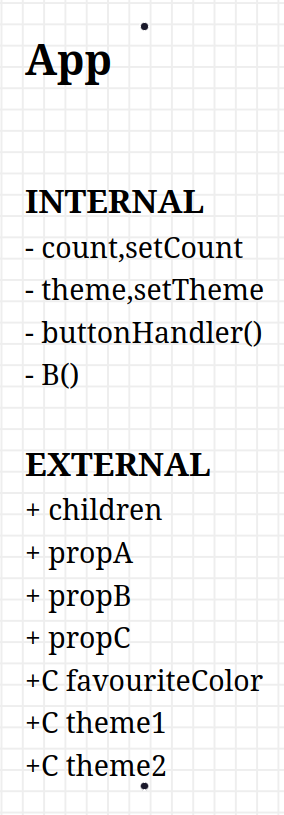
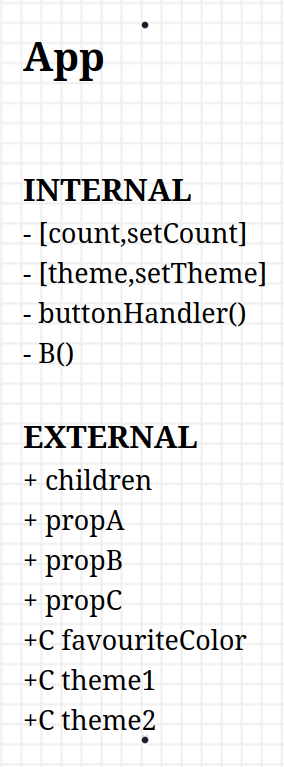
feat: update ComponentNode state display format
- Modify the state display in ComponentNode to use square brackets for better visual distinction.
- Update the diagram preview image to reflect the latest UI changes.

diff --git a/src/components/ComponentNode/ComponentNode.jsx b/src/components/ComponentNode/ComponentNode.jsx
@@ -10,7 +10,7 @@ function ComponentNode({ data: component }) {
       <br />
       <h3>INTERNAL</h3>
       {component.internal.states.map((state) => (
-        <p key={state}> {`- ${state}`} </p>
+        <p key={state}> {`- [${state}]`} </p>
       ))}
       {component.internal.functions.map((func) => (
         <p key={func}> {`- ${func}()`}</p>
